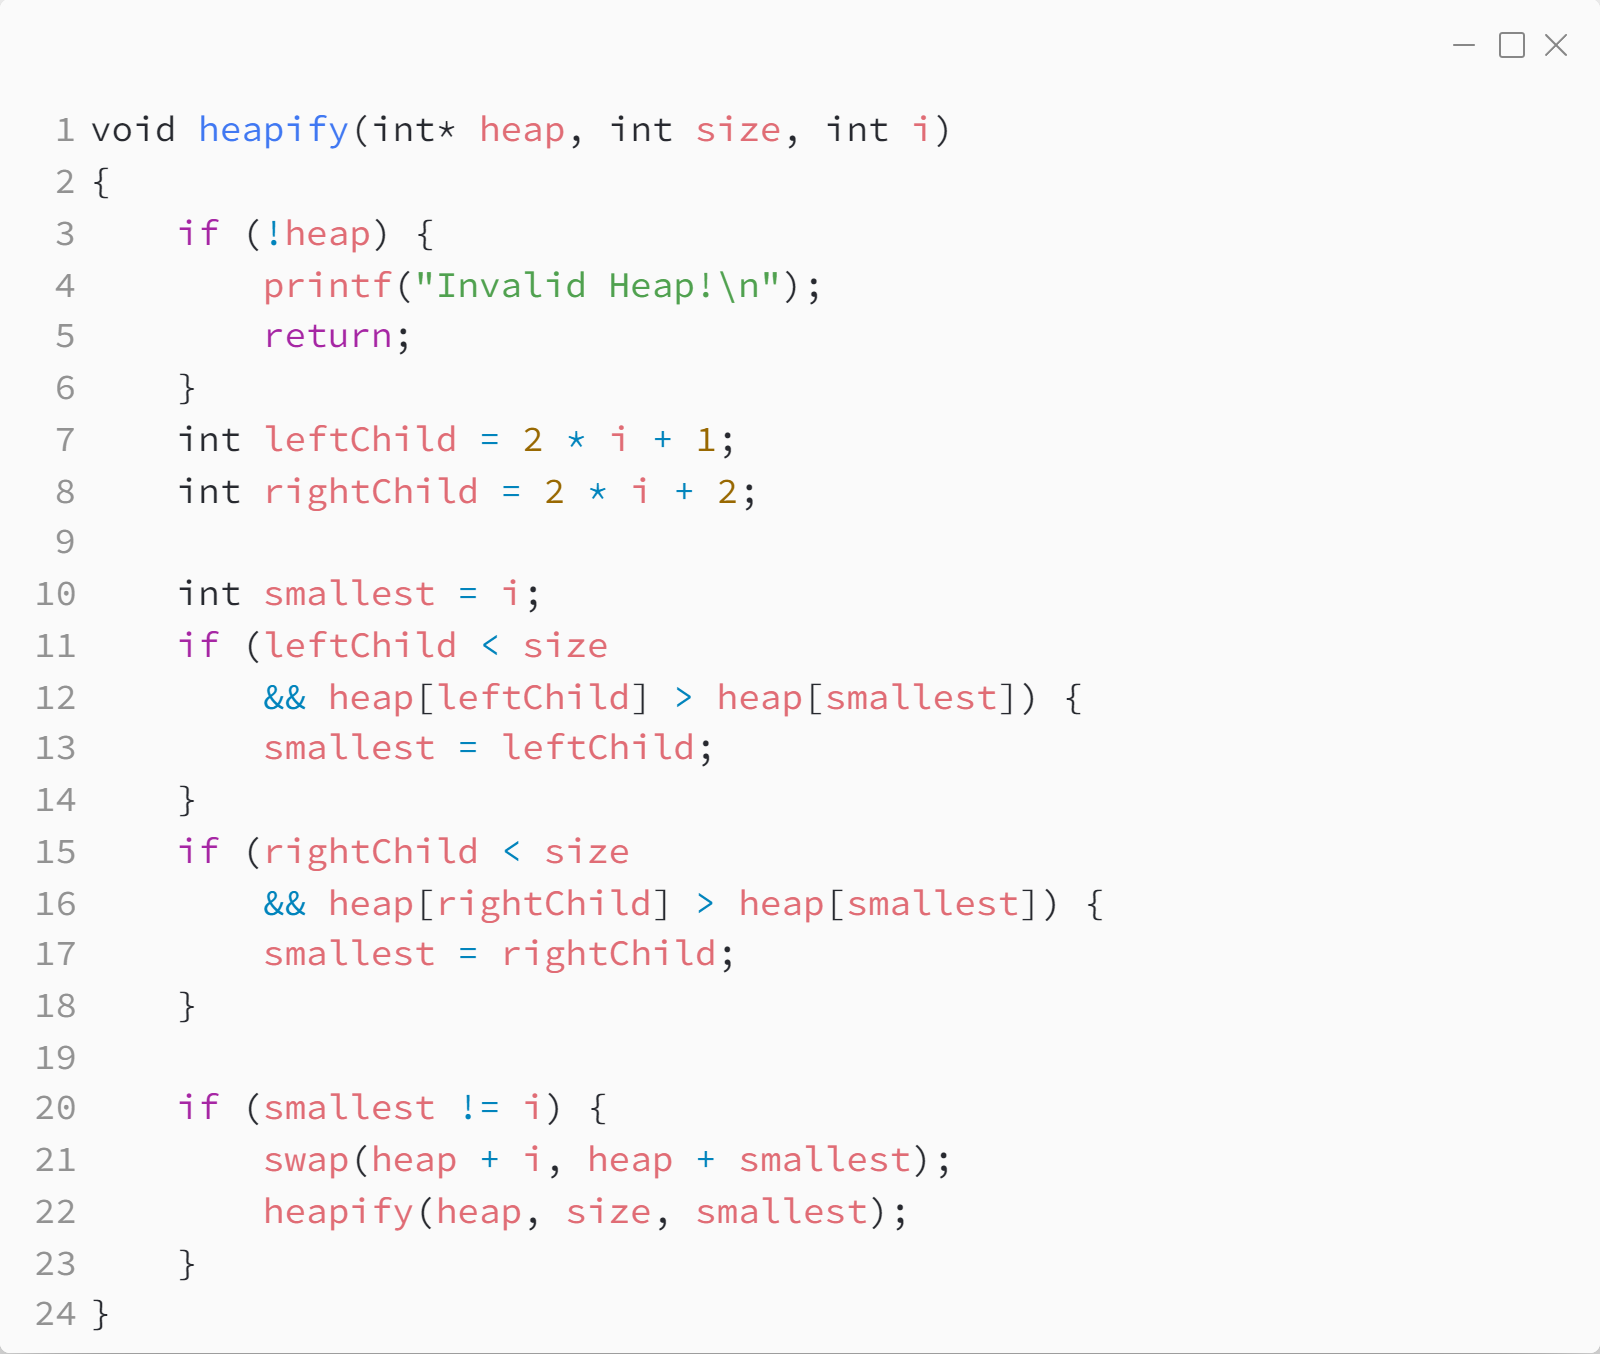
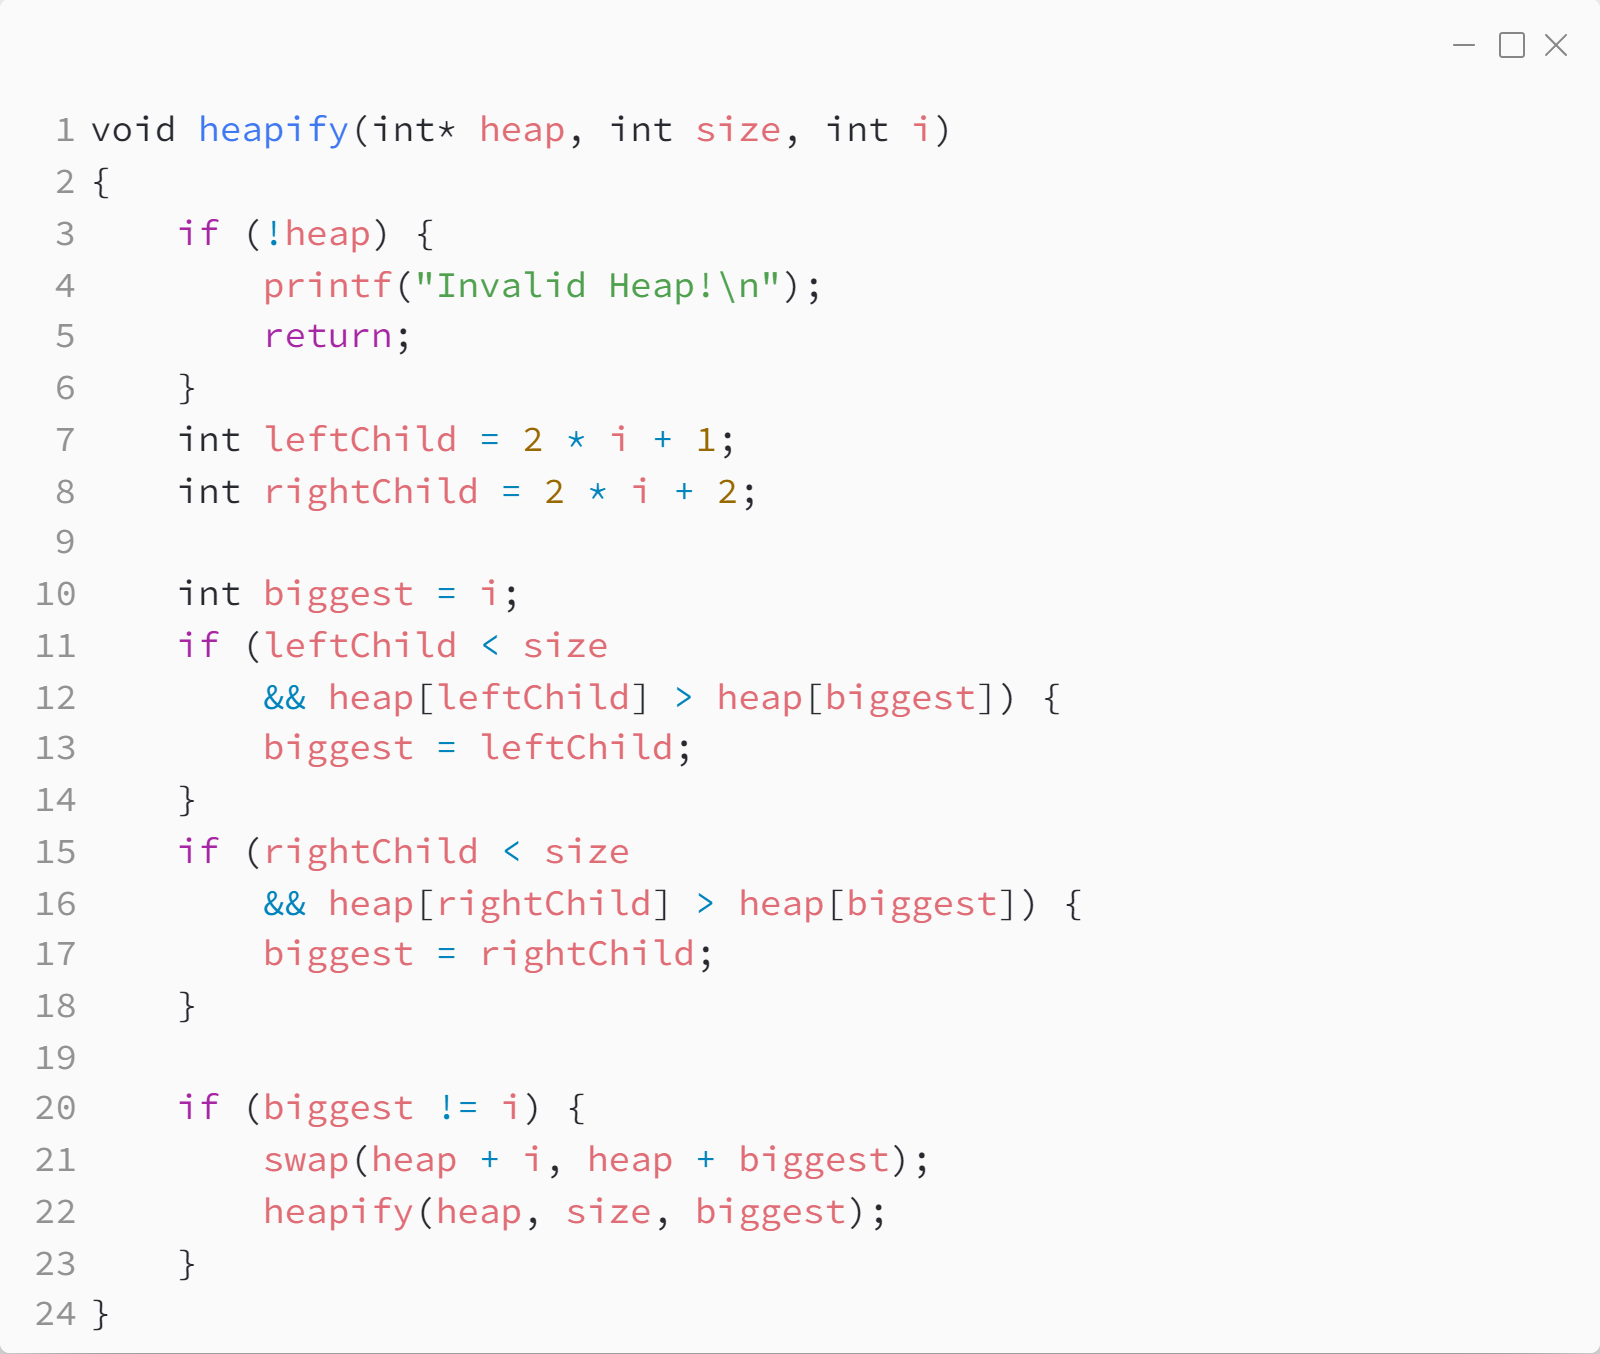
Adress review comments

diff --git a/7_heap/practice/src/heap_array.c b/7_heap/practice/src/heap_array.c
@@ -21,19 +21,19 @@ void heapify(int* heap, int size, int i)
     int leftChild = 2 * i + 1;
     int rightChild = 2 * i + 2;
 
-    int smallest = i;
+    int biggest = i;
     if (leftChild < size
-        && heap[leftChild] > heap[smallest]) {
-        smallest = leftChild;
+        && heap[leftChild] > heap[biggest]) {
+        biggest = leftChild;
     }
     if (rightChild < size
-        && heap[rightChild] > heap[smallest]) {
-        smallest = rightChild;
+        && heap[rightChild] > heap[biggest]) {
+        biggest = rightChild;
     }
 
-    if (smallest != i) {
-        swap(heap + i, heap + smallest);
-        heapify(heap, size, smallest);
+    if (biggest != i) {
+        swap(heap + i, heap + biggest);
+        heapify(heap, size, biggest);
     }
 }
 
@@ -84,14 +84,14 @@ void delete(int* heap, int* size, int index)
     heapify(heap, *size, index);
 }
 
-// extract the mininmum
+// extract the maximum
 int get_max(int* heap, int* size)
 {
-    int min = heap[0];
+    int max = heap[0];
 
     delete (heap, size, 0);
 
-    return min;
+    return max;
 }
 
 int main()

diff --git a/7_heap/practice/src/binary_tree.c b/7_heap/practice/src/binary_tree.c
@@ -108,7 +108,7 @@ binary_tree_node_t* dequeue(queue_t* queue) {
         linked_list_node_t* new_tail = queue->tail->prev;
 
         if(new_tail) {
-            new_tail->next == NULL;
+            new_tail->next = NULL;
         }
 
         if(queue->tail == queue->head) {

diff --git a/7_heap/practice/src/heap_tree.c b/7_heap/practice/src/heap_tree.c
@@ -111,7 +111,7 @@ binary_tree_node_t* dequeue(queue_t* queue) {
         linked_list_node_t* new_tail = queue->tail->prev;
 
         if(new_tail) {
-            new_tail->next == NULL;
+            new_tail->next = NULL;
         }
 
         if(queue->tail == queue->head) {

diff --git a/7_heap/practice/md/8.md b/7_heap/practice/md/8.md
@@ -4,13 +4,24 @@ _Практика 7. Binary heap._
 
 ## Вариант решения 1
 
-Создать из массива кучу. Заполнить результирующий массив беря элементы из кучи.
+Создать из массива min-кучу. Заполнить результирующий массив беря элементы из кучи.
 
 ## Вариант решения 2
 
-Первый вариант решения предпологает использование дополнительной памяти. Этого можно избежать, последовательно вызывая функцию `heapify` начиная от конца массива.
+Первый вариант решения предпологает использование дополнительной памяти. Этого можно избежать, используя следующий алгоритм:
 
-Работоспособность этого способа обослувлена тем, что функция `heapify` восстанавливает свойство кучи для бинарного дерева, если такое свойство соблюдено для всех поддеревьев. Вызывая `heapify` начиная от листьев дерева и заканчивая корнем можно восстановить свойство кучи для всего дерева.
+1) создаём max-heap, последовательно вызывая функцию `heapify` начиная от конца массива
+    * после этого в массиве на индексе 0 окажется максимальный элемент
+2) поменяем местами корневой элемент кучи с последним элементом кучи
+    * теперь последний элемент кучи находится в правильном положении
+3) уменьшаем размер кучи на 1 с конца - "удаляем" последний элемент, находящийся в правильной позиции в массиве
+4) восстанавливаем свойство кучи с момощью функции `heapify`
+5) повторяем пункты 2-4, пока в куче не останется один элемент
+
+> Работоспособность пункта 1 обослувлена тем, что функция `heapify` восстанавливает свойство кучи для бинарного дерева, если такое свойство соблюдено для всех поддеревьев. Вызывая `heapify` начиная от листьев дерева и заканчивая корнем можно восстановить свойство кучи для всего дерева.
+
+
+Детали - [heap-sort.](https://www.geeksforgeeks.org/heap-sort/)
 
 ## Решение задачи 0 с использованием сортировки
 

diff --git a/7_heap/practice/md/3.md b/7_heap/practice/md/3.md
@@ -2,7 +2,7 @@ _Практика 7. Binary heap._
 
 # Задача 0 - Формулировка задачи.
 
-Дано `n` массивов разной длинны. Массивы отсортированы по возрастанию. Необходимо слить все `n` массивов в один. Результирующий массив должен быть отсортирован по возрастанию.
+Дано `n` массивов разной длинны. Массивы неупорядочены. Необходимо слить все `n` массивов в один. Результирующий массив должен быть отсортирован по убыванию.
 
 > Есть несколько вариантов решения этой задачи.
 

diff --git a/7_heap/practice/md/7.md b/7_heap/practice/md/7.md
@@ -2,7 +2,7 @@ _Практика 7. Binary heap._
 
 # Задача 2 - Формулировка задачи.
 
-Необходимо отсортировать массив.
+Необходимо отсортировать массив по возрастанию.
 
 > Есть несколько вариантов решения этой задачи.
 

diff --git a/7_heap/practice/md/1.md b/7_heap/practice/md/1.md
@@ -1,6 +1,6 @@
 _Практика 7. Binary heap._
 
-# Секция 0 - Binary heap on binary tree.
+# Секция 1 - Binary heap on binary tree.
 
 Исходный код - [heap_tree.c](../src/heap_tree.c)
 

diff --git a/7_heap/practice/md/2.md b/7_heap/practice/md/2.md
@@ -1,6 +1,6 @@
 _Практика 7. Binary heap._
 
-# Секция 0 - Binary heap on array.
+# Секция 2 - Binary heap on array.
 
 Исходный код - [heap_array.c](../src/heap_array.c)
 
